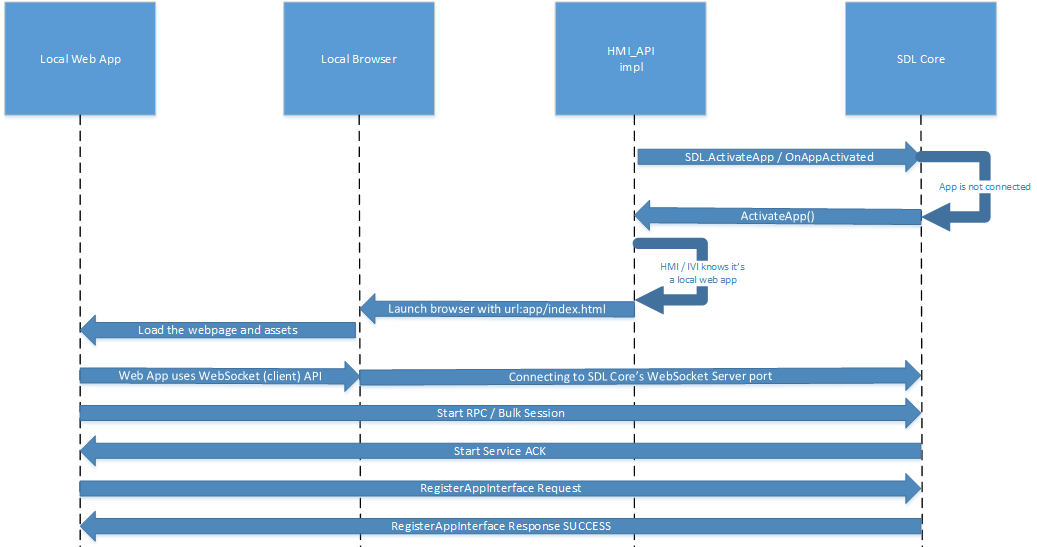
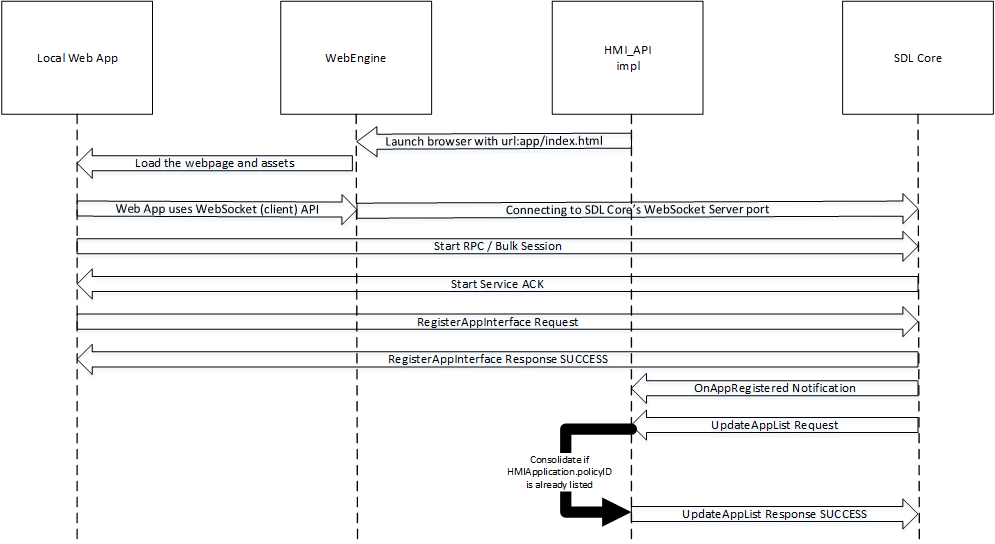
Removing all related to cloud app properties.

diff --git a/proposals/NNNN-sdl-js-pwa.md b/proposals/NNNN-sdl-js-pwa.md
@@ -1,4 +1,4 @@
-# WebEngine support for SDL JavaScript
+# WebEngine & WebView support for SDL JavaScript
 
 * Proposal: [SDL-NNNN](NNNN-sdl-js-pwa.md)
 * Author: [Kujtim Shala](https://github.com/kshala-ford)
@@ -15,38 +15,26 @@ Allowing new user facing applications to run in a vehicle is a big opportunity f
 
 ## Proposed solution
 
-The proposed solution is to allow apps running in a WebEngine and connect to SDL Core using WebSockets. The WebEngine can be a browser that is reduced to the HTML rendering part only (without url bar, tabs etc.). The WebEngine can be on the local host or in the local network where SDL Core is hosted. The proposed solution uses cloud app transport adapter with additions to support apps running locally in a sandboxed (browser) environment.
+The proposed solution is to allow apps running in a WebEngine and connect to SDL Core using WebSockets. The WebEngine can be a browser that is reduced to the HTML rendering part only (without url bar, tabs etc.). The WebEngine can be on the local host or in the local network where SDL Core is hosted.
 
 ### High level overview 
 
 1. Apps should be made available to the user through an OEM store. The user should be able to install or uninstall apps from the store.
 2. An app should be a compressed bundle of application files, such as html, css or script files. At minimum it requires following files
-   1. index.html
-   2. manifest.json
+   1. sdl.js file
+   2. manifest.json file
+   3. An html file where the manifest is pointing to
 3. The manifest.json file must be included in the HTML file as a script source
-4. The manifest.json file should contain:
-   1. SDL app ID
-   2. App nicknames
-   3. App version
-   4. Min SDL version
-   5. a relative path to an app icon in the app bundle
-5. The OEM store's backend should store the compressed app.
-6. If a user installs an app the store should download and decompress the app to the system.
-7. The OEM store uses `SetCloudAppProperties` using the manifest data.
-   1. The OEM store may choose to set "enabled" parameter to "true" to include the app in the HMI RPC "UpdateAppList".
-   2. The OEM store may be setting an auth token if the app requires the store to perform the auth process.
-   3. For local apps
-      1. "cloudTransportType" will be "ws" (WebSocket) or "wss" (WebSocket-Secure)
-      2. "endpoint" parameter will be omitted. Instead the HMI is responsible to launch local apps.
-   4. If Core doesn't know the app ID it should ask HMI for a policy update.
-8. An app should be able to update the auth token while being registered/activated.
-9. The OEM store should be notified about the auth token change.
-10. Core should support a WebSocket Server as a transport.
-11. If a user activates a local app through the HMI, the HMI should launch the app by opening the index.html file.
-12. HMI should launch the app including SDL Core's hostname and port as GET parameters (file://somewhere/HelloSDL/index.html?ws-host=localhost&ws-port=123456)
-13. The app should connect to Core using the SDL library using hostname and port specified.
+4. The OEM store's backend should store the compressed app.
+5. If a user installs an app, the OEM store should download and decompress the app to the system.
+6. After installation the OEM store should make the app visible and available on the HMI.
+7. Core should support a WebSocket Server as a transport.
+8.  If a user activates a local app through the HMI, the HMI should launch the app by opening the index.html file.
+9.  HMI should launch the app including SDL Core's hostname and port as GET parameters (file://somewhere/HelloSDL/index.html?ws-host=localhost&ws-port=123456)
+10. The app should connect to Core using the SDL library using hostname and port specified.
+11. If Core sends UpdateAppList, the HMI should compare matching SDL app IDs and avoid showing an app twice.
 
-![Overview of apps using WebSocket connections and Cloud App Transport Adapter](../assets/proposals/NNNN-sdl-js-pwa/arch-overview.png)
+![Overview of WebSocket for cloud and embedded apps](../assets/proposals/NNNN-sdl-js-pwa/arch-overview.png)
 
 > An overview of application runtime environment and how they get connected to SDL Core. This proposal adds the WebEngine part.
 
@@ -72,137 +60,7 @@ Due to a new app platform/location the hybrid app pference should be modified to
 </enum>
 ```
 
-The app developer portal should allow a developer to specify an app as a local app. Also as the app platforms increase (2 -> 3) a new way to specify preferences should be introduced. The element `BOTH` should be deprecated and replaced by `ALL`.
-
-### OEM store and `CloudAppProperties`
-
-There should be an OEM owned app which allows users to discover available apps but also install and uninstall apps. The app appearence and behavior is OEM specific however it should be able to communicate with SDL Core using the HMI API in order to provide cloud app properties of cloud and local apps.
-
-The RPC `SetCloudAppProperties` and all related items should also be included in the HMI_API in order to allow settings app properties from the mobile side but also from the system side (if the OEM store is embedded).
-
-With `BOTH` as an app preference being deprecated on the mobile API, SDL core should translate `BOTH` to `ALL` when forwarding app properties to the HMI. Below addition to the HMI_API is a copy of the mobile API regarding cloud app properties.
-
-** HMI_API **
-
-```xml
-<interface name="Common" ...>
-:
-<enum name="HybridAppPreference">
-  <description>Enumeration for the user's preference of which app type to use when both are available</description>
-  <element name="MOBILE" />
-  <element name="CLOUD" />
-  <element name="LOCAL"/>
-  <element name="ALL"/>
-</enum>
-</interface>
-
-<interface name="BasicCommunication" ...>
-:
-<struct name="CloudAppProperties">
-  <param name="nicknames" type="String" minlength="0" maxlength="100" array="true" minsize="0" maxsize="100" mandatory="false">
-      <description>An array of app names a cloud app is allowed to register with. If included in a SetCloudAppProperties request, this value will overwrite the existing "nicknames" field in the app policies section of the policy table.</description>
-  </param>
-  <param name="appID" type="String" maxlength="100" mandatory="true"/>
-  <param name="enabled" type="Boolean" mandatory="false">
-      <description>If true, cloud app will be included in HMI RPC UpdateAppList</description>
-  </param>
-  <param name="authToken" type="String" maxlength="65535" mandatory="false">
-      <description>Used to authenticate websocket connection on app activation</description>
-  </param>
-  <param name="cloudTransportType" type="String" maxlength="100" mandatory="false">
-      <description>Specifies the connection type Core should use</description>
-  </param>
-  <param name="hybridAppPreference" type="HybridAppPreference" mandatory="false">
-      <description>Specifies the user preference to use the cloud app version or mobile app version when both are available</description>
-  </param>
-  <param name="endpoint" type="String" maxlength="65535" mandatory="false">
-      <description>Specifies the endpoint which Core will attempt to connect to when this app is selected</description>
-  </param>
-</struct>
-
-<function name="SetCloudAppProperties" messagetype="request">
-  <description>
-    HMI > SDL. RPC used to enable/disable a cloud application and set authentication data
-  </description>
-  <param name="properties" type="CloudAppProperties" mandatory="true">
-    <description> The new cloud application properties </description>
-  </param>
-</function>
-
-<function name="SetCloudAppProperties" messagetype="response">
-  <description>The response to SetCloudAppProperties</description>
-  <param name="success" type="Boolean" platform="documentation" mandatory="true">
-    <description> true if successful; false if failed </description>
-  </param>
-  <param name="resultCode" type="Result" platform="documentation" mandatory="true">
-    <description>See Result</description>
-    <element name="SUCCESS"/>
-    <element name="INVALID_DATA"/>
-    <element name="OUT_OF_MEMORY"/>
-    <element name="TOO_MANY_PENDING_REQUESTS"/>
-    <element name="GENERIC_ERROR"/>
-    <element name="DISALLOWED"/>
-    <element name="WARNINGS"/>
-  </param>
-</function>
-
-<function name="GetCloudAppProperties" messagetype="request">
-  <description>
-    HMI > SDL. RPC used to get the current properties of a cloud application
-  </description> 
-  <param name="appID" type="String" maxlength="100" mandatory="true"></param>
-</function>
-
-<function name="GetCloudAppProperties" messagetype="response">
-  <description>The response to GetCloudAppProperties</description>
-  <param name="properties" type="CloudAppProperties" mandatory="false">
-    <description> The requested cloud application properties </description>
-  </param>
-  <param name="success" type="Boolean" platform="documentation" mandatory="true">
-    <description> true if successful; false if failed </description>
-  </param>
-  <param name="resultCode" type="Result" platform="documentation" mandatory="true">
-    <description>See Result</description>
-    <element name="SUCCESS"/>
-    <element name="INVALID_DATA"/>
-    <element name="OUT_OF_MEMORY"/>
-    <element name="TOO_MANY_PENDING_REQUESTS"/>
-    <element name="GENERIC_ERROR"/>
-    <element name="DISALLOWED"/>
-    <element name="WARNINGS"/>
-  </param>
-</function>
-
-<function name="OnCloudAppPropertiesChange" messagetype="notification">
-  <description>
-    SDL > HMI. RPC used to inform HMI about app properties change (such as auth token).
-  </description>
-  <param name="properties" type="CloudAppProperties" mandatory="true">
-    <description> The new cloud application properties </description>
-  </param>
-</function>
-</interface>
-```
-
-### Policy table update
-
-With app properties being set by the OEM store, SDL Core may require a policy table update. The [HMI documentation for OnSystemRequest](https://smartdevicelink.com/en/docs/hmi/master/basiccommunication/onsystemrequest/) shows sequence diagrams of how the update can be performed today. With vehicles having internet connectivity they can be able to perform the update without the need of a mobile app. 
-
-The cloud app transport adapter proposal includes a use case that describes how a policy server with transport adapter enhancements can update the policy table (see [here](https://github.com/smartdevicelink/sdl_evolution/blob/master/proposals/0158-cloud-app-transport-adapter.md#example-use-case-2)).
-
-SDL Core should trigger a policy update after a new and unknown appID is entered from a `SetCloudAppProperties` request or after a new app has registered. In addition to the existing update procedures, the HMI should be able to perform an update request without sending a system request back to SDL Core. 
-
-![Diagram PTU external proprietary over modem](../assets/proposals/NNNN-sdl-js-pwa/diagram_PolicyUpdate_external_proprietary_enhanced.png)
-
-> Diagram showing an additional way to perform a policy table update using the vehicle modem.
-
-SDL Core logic should be changed to allow triggering policy updates without any connected applications. This should be a configurable option in the smartDeviceLink.ini file. The configuration flag should be located in the `[HMI]` section and could be called `SupportsPolicyUpdate`. The flag can be set to `true` or `false` (defaults to `false`).
-
-In case the policy updates fails using the in-vehicle modem, the HMI should still be able to return the policy table snapshot with a system request to SDL. This would allow a fallback to the existing sequence using mobile phones to transfer the policy table.
-
-![Diagram PTU external fallback](../assets/proposals/NNNN-sdl-js-pwa/diagram_PolicyUpdate_external_proprietary_enhanced_fallback.png)
-
-> Diagram showing an additional way to perform a policy table update using the vehicle modem.
+The app developer portal should allow a developer to specify an app as a local web app. Also as the app platforms increase (2 -> 3) a new way to specify preferences should be introduced. The element `BOTH` should be deprecated and replaced by `ALL`.
 
 ### WebSocket transport
 
@@ -214,31 +72,43 @@ On the library side a new transport based on a WebSocket client should be create
 
 ### JavaScript library
 
-As described above the JavaScript library should be extended with a new transport. The library should also be extended to be exportable to a single .js file that can be included in an HTML file. This export could be done per library release using Webpack.
+As described above the JavaScript library should be extended with a new transport. The library should also be extended to be exportable to a single .js file that can be easily included in an HTML file. This export could be done per library release using Webpack.
 
 This new transport should be specifically for WebEngine purposes and should not be included for the Node.js platform. In order to improve simple "plug-an-play" of the library, the .js file should include only this single transport.
 
-### Local web app installation
+### Web application package
 
-If a user selects an app from the OEM store to be installed, the OEM store would notify SDL Core about the new app. The new app should appear in a dimmed state during the installation. 
+With installing an app on the infotainment system there should be a minimum set of requirements on how the app should be packaged.
 
-![Flow of installing a web app](../assets/proposals/NNNN-sdl-js-pwa/install-web-app.png)
+1. The app package should be a compressed zip file
+2. It should contain a manifest.json and the sdl.js file
+3. The manifest file should contain:
+   1. a relative path to an html file which is the entry point of the app
+   6. a relative path to an app icon in the app bundle
+   2. SDL app ID
+   3. app name
+   4. optionally per supporting SDL locale:
+      1. app name (overrides global app name) (must be one of the valid app nicknames)
+      2. optionally relative path to an app icon (overrides global app icon)
+      3. optionally TTS name (an array of tts chunks)
+      4. optionally VR app names (an array of strings)
+   5. App version
+   6. Min SDL version supported
+4. All script files should be included in the package
+   1. Any `<script>` element with `src` attribute should point to a script file in the package
+   2. No scripts from outside the package should be allowed
+5. A whitelist of urls the app want to access
+6. The entry point HTML file should refer to the manifest file (`<script src="manifest.json" />`)
 
-> Flow of installing a web app on the infotainment system. Using SDL to list the app on the HMI.
+Above metadata may be used for the OEM app store and for presenting the app on the HMI (including voice capability).
 
-In case the HMI already has a procedure to present installed local applications the OEM store can set `enabled=false` to avoid SDL Core sending `UpdateAppsList`. Following flow describes the difference between listing the app with SDL or by the system.
+This definition should ensure that apps can be approved and verified by SDLC and OEMs without possibility of modifications after approval. Also this set of requirements should ensure compatibility throughout integrators. The final approval process will be part of another proposal.
 
-![Flow of installing a web app with system listing](../assets/proposals/NNNN-sdl-js-pwa/install-web-app-proprietary-listing.png)
-
-> Flow installing a web app on the infotainment system. Using existing system function to list the app on the HMI.
-
-With the app registering on SDL the HMI will be notified of the app registration. The HMI should correlate if the app is already listed by using the app ID. If the HMI identifies that the app is not yet listed it should present the registered app on the app list.
-
-### Local web app activation
+### Activating a web app
 
 Activating a local web app by a user will cause the HMI to launch the app's index.html file in the WebEngine. Once the engine has loaded the web page the JavaScript SDL library will initiate a WebSocket connection to SDL Core's 
 
-![Flow of user activating a web app](../assets/proposals/NNNN-sdl-js-pwa/activate-web-app-disabled.png)
+![Flow of user activating a web app](../assets/proposals/NNNN-sdl-js-pwa/activate-web-app.png)
 
 > Flow of how a user activates a web app and how it gets visible on the screen.
 
@@ -256,7 +126,7 @@ A new App HMI type called `OPEN_HMI` should be introduced. When apps with this H
 
 ![Screenshot example of a web app](../assets/proposals/NNNN-sdl-js-pwa/web-app-example.jpg)
 
-> Screenshot shows a local web app presenting the user interface with the HTML renderer of the WebEngine.
+> Example of a local web app presenting the user interface with the HTML renderer of the WebEngine.
 
 **Mobile and HMI API**
 
@@ -275,11 +145,12 @@ The upside of apps running with a WebEngine is that it comes with an extremely f
 
 ## Impact on existing code
 
-1. This proposal is using many pieces of the cloud app transport adapter but outside of a cloud app.
-2. The transport adapter needs to support both WebSocket Client<->Server sequences.
-3. Core needs a new transport type to support a WebSocket Server.
-4. The JavaScript library needs a new transport type to support WebSocket Client.
+1. Core needs a new transport type to support a WebSocket Server.
+2. The JavaScript library needs a new transport type to support WebSocket Client.
+3. Developer site needs a new field for local apps.
+
+
 
 ## Alternatives considered
 
-No other altnernatives considered.
+An additional (alternative) feature considered is to use cloud app transport adapter to inform Core about a new app installation. Originally this concept was part of this proposal. However it was removed from this proposal as the cloud app transport adapter is designed for the concept of Core being a client to connect to apps being the server.
